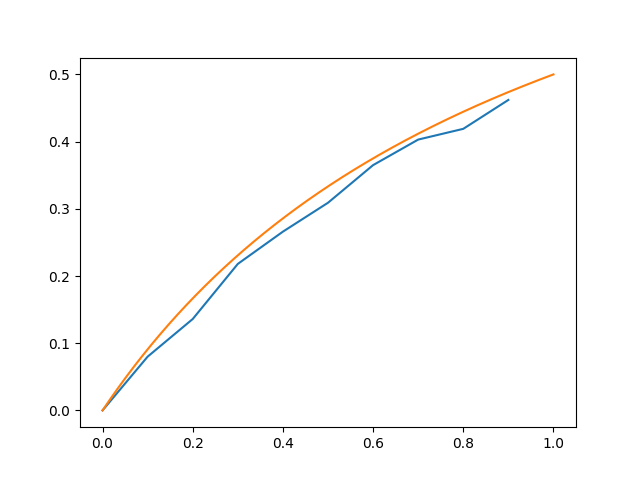
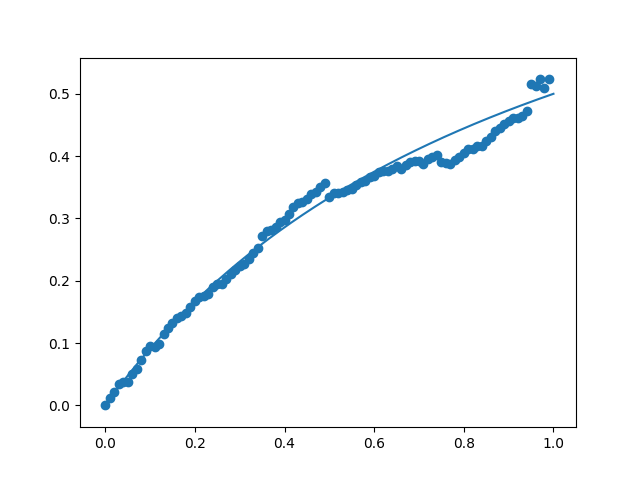
update kadai04.py

diff --git a/programming/kadai04.py b/programming/kadai04.py
@@ -5,13 +5,13 @@ import numpy as np
 step = 1000
 x = []
 y = []
-for i in range(10):
-  q = i / 10
+for i in range(100):
+  q = i / 100
   proc = subprocess.run(["./random_walk", str(q), str(step)], stdout=subprocess.PIPE)
   x.append(q)
   y.append(int(proc.stdout.decode("utf8")) / step)
 
-plt.plot(x, y)
+plt.scatter(x, y)
 x = np.linspace(0, 1, 1000)
 y = x / (x + 1)
 plt.plot(x, y)
